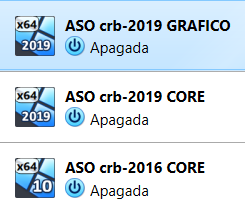
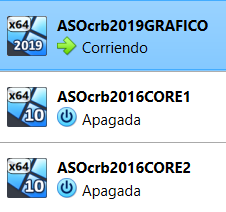
yeah

diff --git a/ut04/pr0401.md b/ut04/pr0401.md
@@ -6,15 +6,41 @@ Necesitarás la siguiente configuración de máquinas virtuales:
 
 Windows Server 2019 con experiencia de escritorio
 
-Windows Server 2016 en modo Core
+Windows Server 2016 (1) en modo Core
 
-Windows Server 2016 en modo Core
+Windows Server 2016 (2) en modo Core
 
-He importado y configurado los siguientes equipos:
+He importado y configurado los siguientes equipos: (OJO: para instalar el GRAFICO hay que omitir instalación desatendida y seleccionar las opciones convenientes durante la instalación (Estándar experiencia de escritorio). Con la instalación desatendida instala el CORE directamente.)
 
 ![fotoyeah](./1.png)
 
-Se van a conectar mediante un adaptador puente en cada máquina e IP estática configurada desde el panel de control de cada equipo, cada uno la suya.
+Cada máquina tiene un solo adaptador puente.
+
+Debemos hacer que la IP del adaptador de cada máquina sea estática.
+
+El crb2019grafico va a tener la siguiente IP, nombre y fichero hosts:
+
+![fotoyeah](./2.png)
+
+![fotoyeah](./3.png)
+
+![fotoyeah](./4.png)
+
+El crb2016core1 va a tener la siguiente IP, nombre y fichero hosts:
+
+![fotoyeah](./5.png)
+
+![fotoyeah](./6.png)
+
+![fotoyeah](./7.png)
+
+El crb2016core2 va a tener la siguiente IP, nombre y fichero hosts:
+
+![fotoyeah](./8.png)
+
+![fotoyeah](./9.png)
+
+![fotoyeah](./10.png)
 
 1. Preparación de las máquinas
 
@@ -22,13 +48,16 @@ Comprueba la conectividad entre los tres equipos:
 
 Asigna nombres a los equipos, estos nombres serán:
 
-Windows Server 2019 con entorno gráfico: {INICIALES}-2019
+Windows Server 2019 con entorno gráfico: CRB-2019
 
-Windows Server 2019 en modo core: {INICIALES}-CORE-2019
+Windows Server 2016 (1) en modo core: CRB-CORE-2016-1
 
-Windows Server 2016 en modo core: {INICIALES}-CORE-2016
+Windows Server 2016 (2) en modo core: CRB-CORE-2016-2
 
 Edita el fichero hosts de cada equipo para la habilitar la resolución local de nombres entre ellos.
+
+Los trusted hosts son:
+CRB-2019 CRB-CORE-2016-1 CRB-CORE-2016-2
 
 1. Configuración del acceso remoto al nuevo equipo
 
